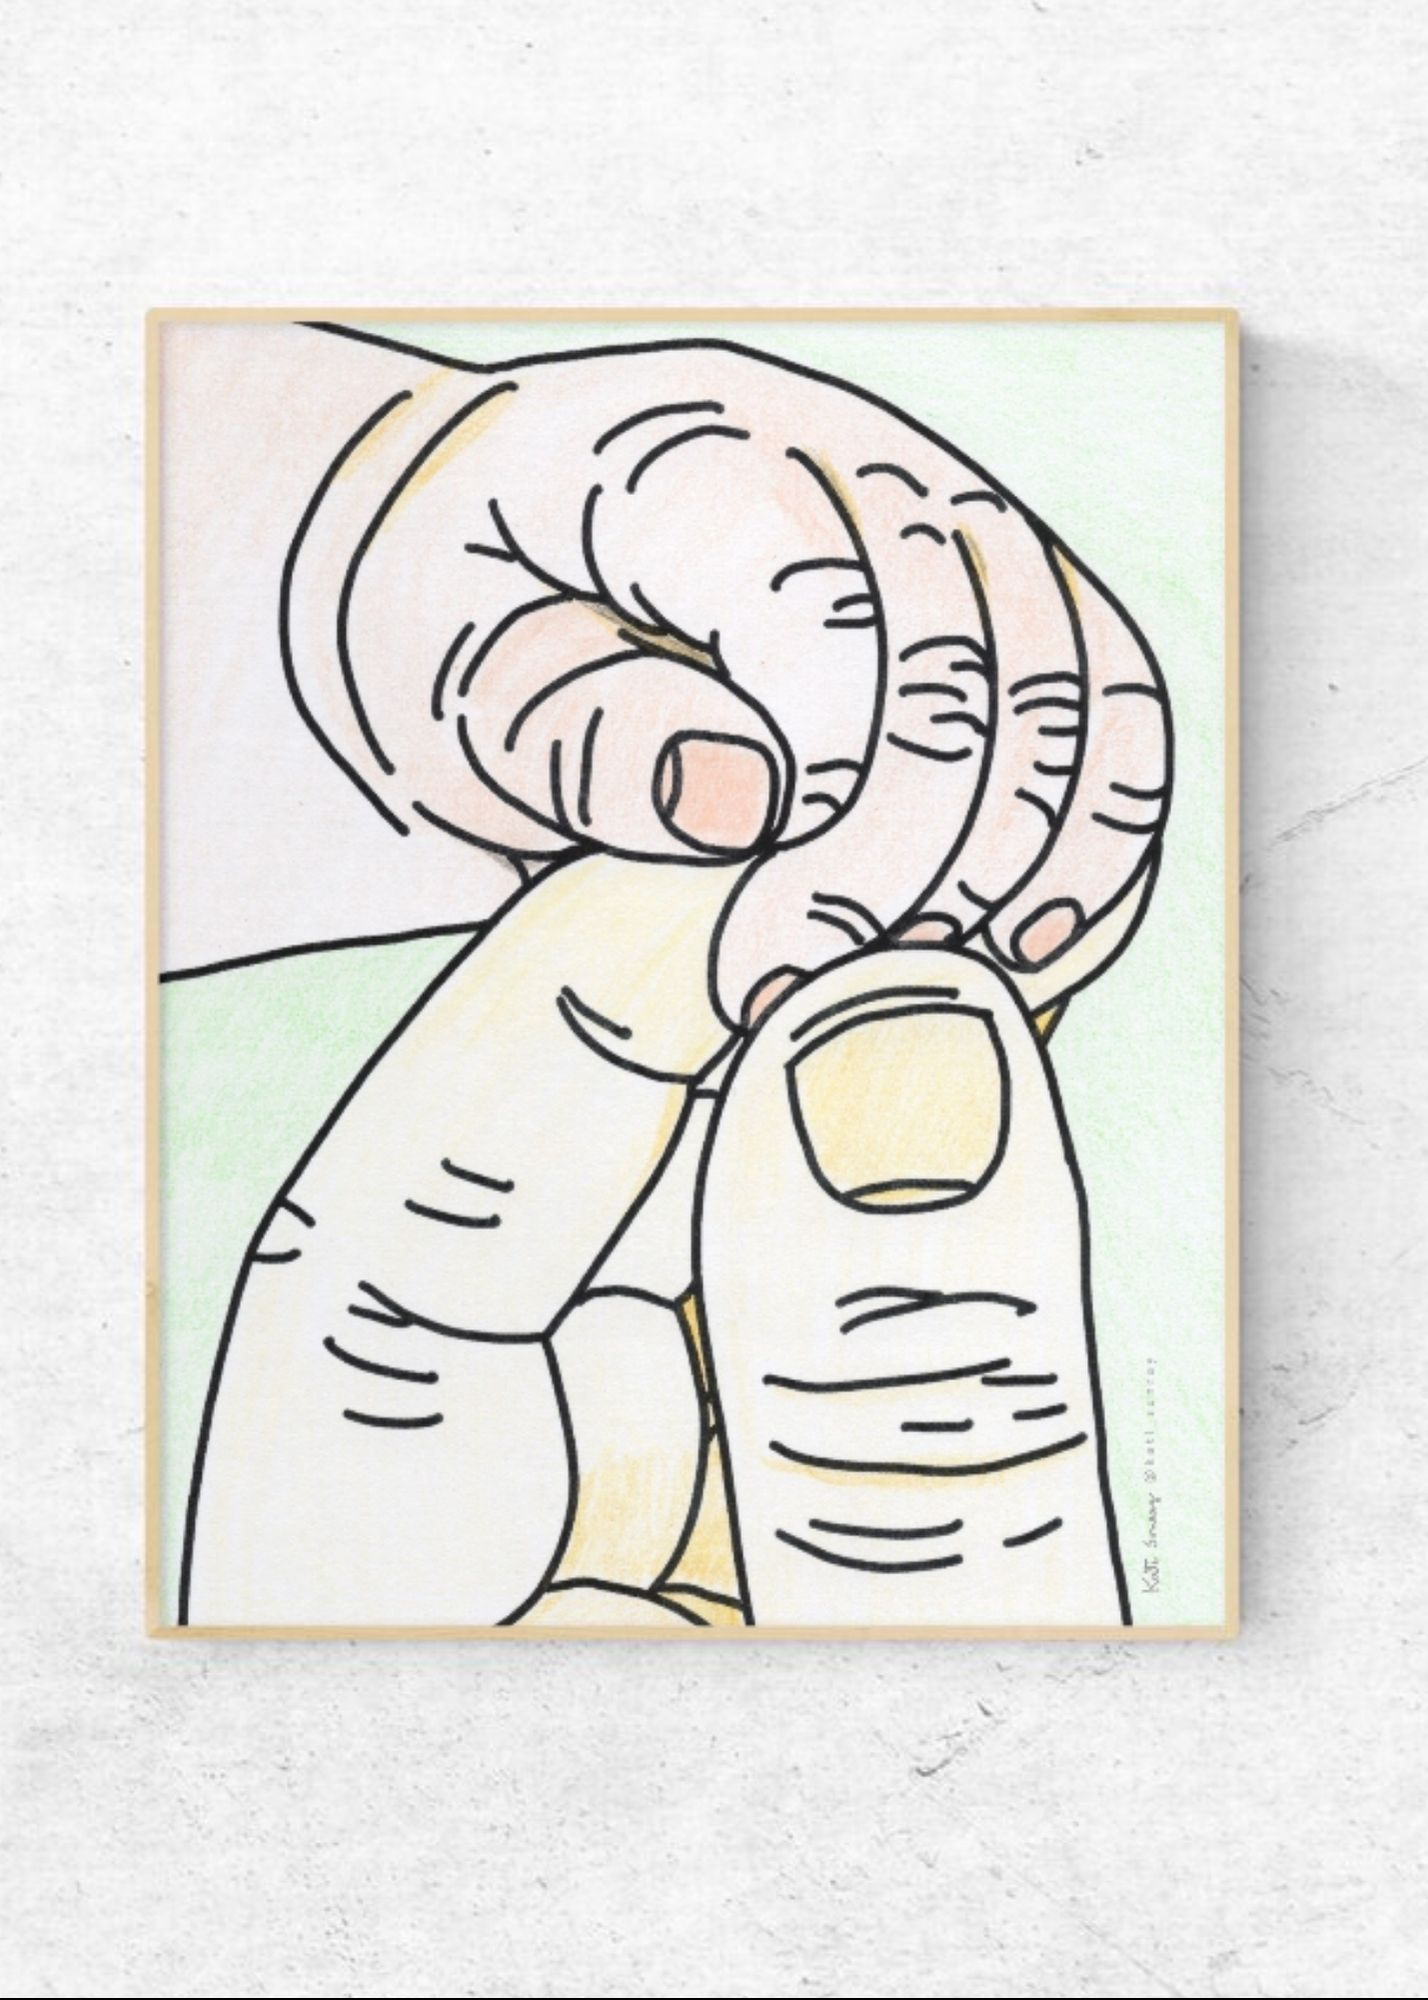
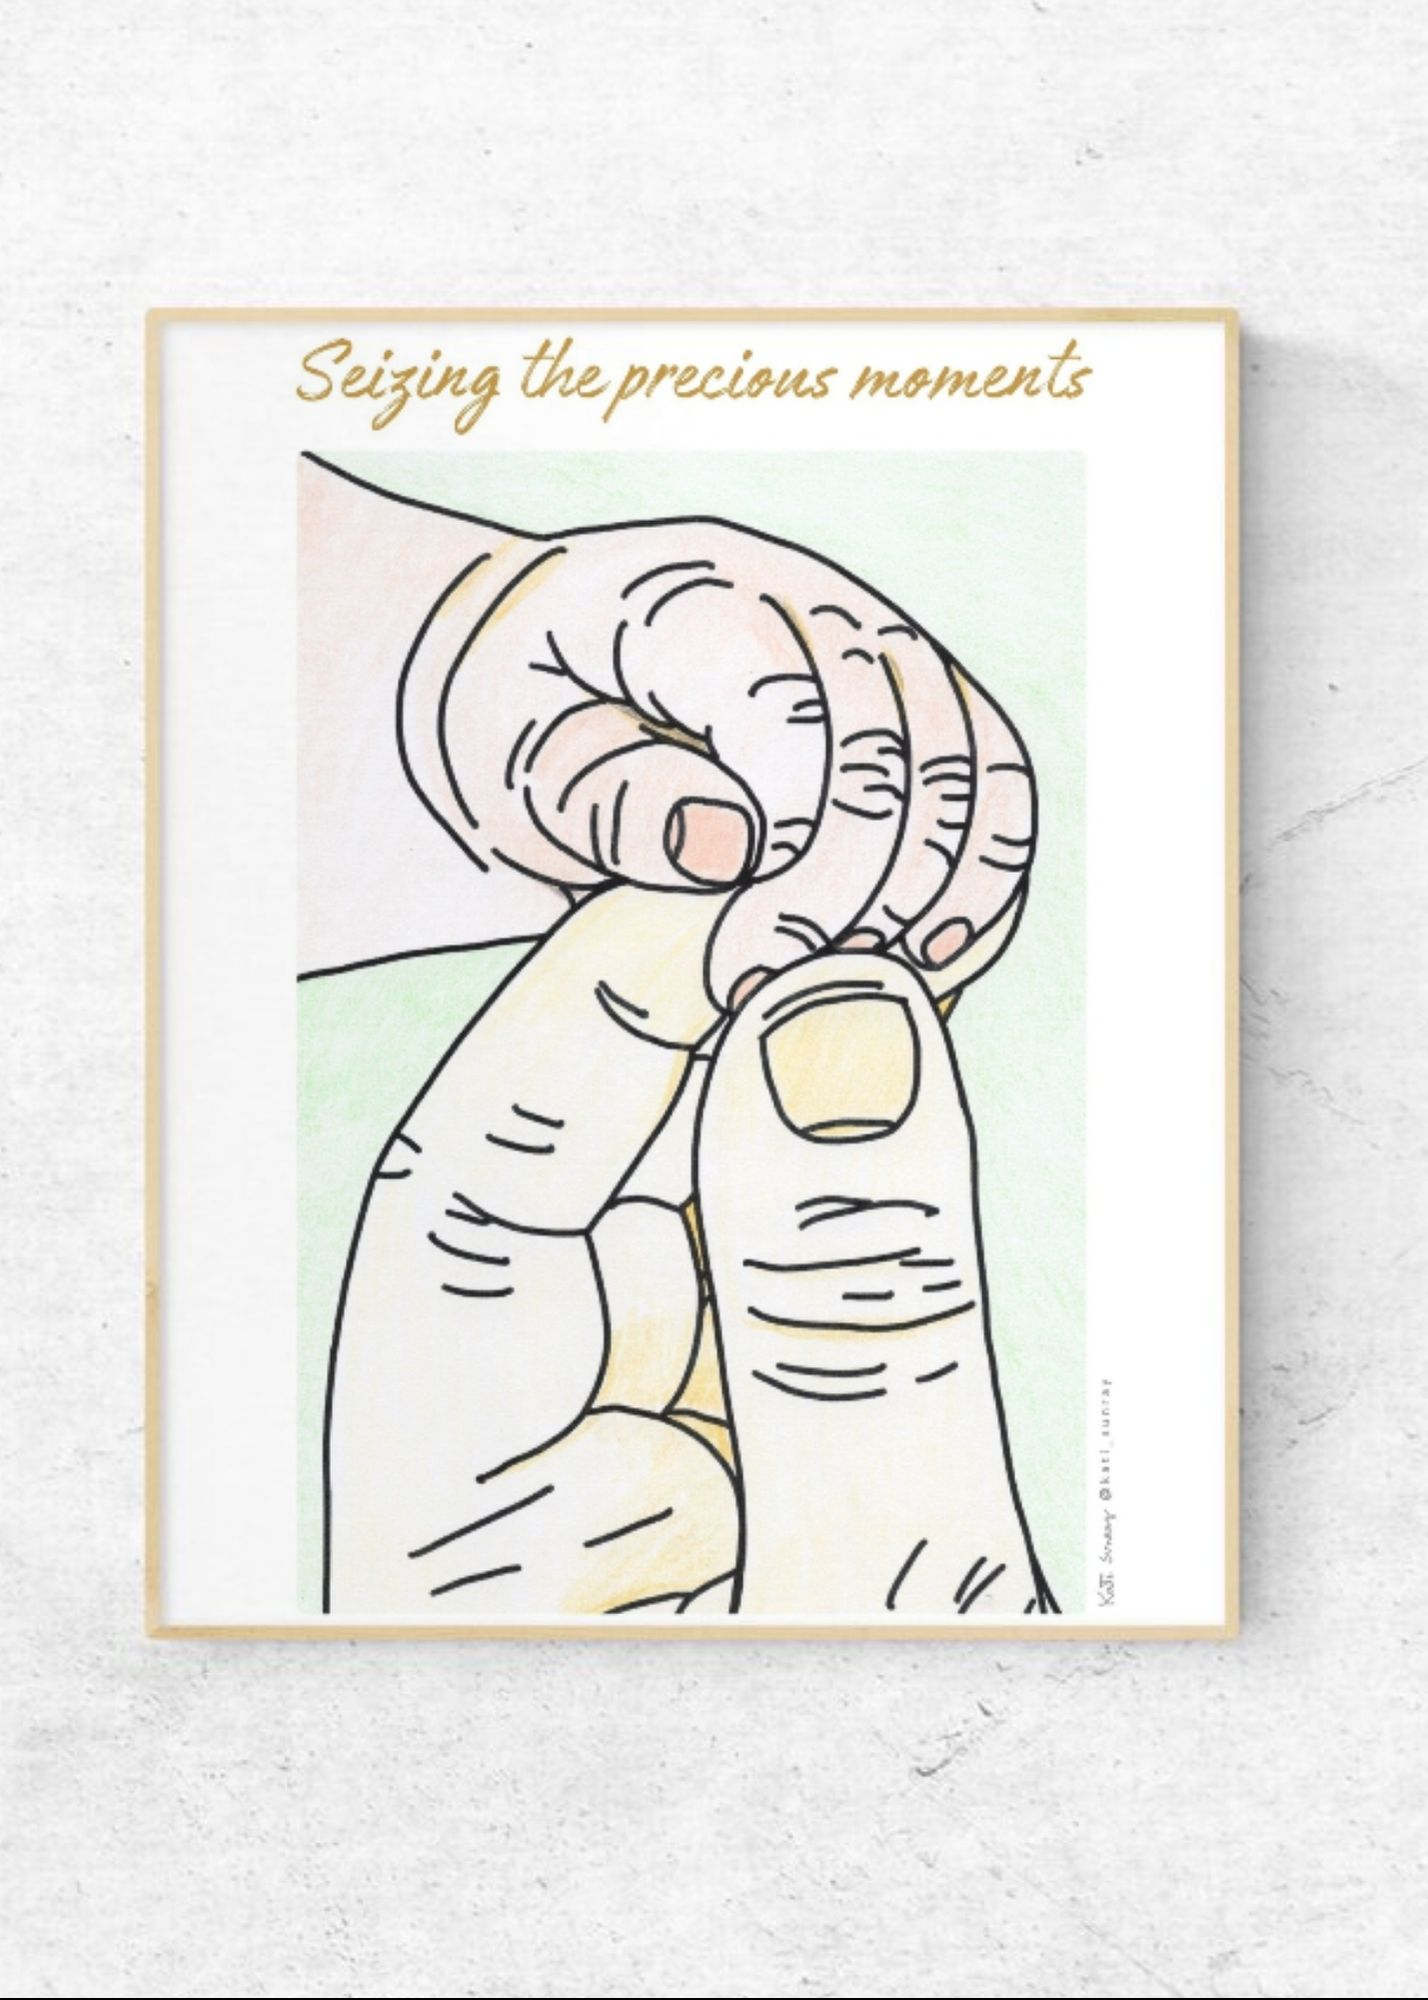
feat: add new custom offerings and refresh product assets

Changed region(s): [[0.0924, 0.155, 0.8627, 0.837], [0.1232, 0.155, 0.1541, 0.186]]

diff --git a/.eleventy.js b/.eleventy.js
@@ -100,13 +100,24 @@ module.exports = function (config) {
         imageHtml = await imgShortcode(chosen, d.title, [400, 800, 1200], "(min-width: 1024px) 20vw, (min-width: 640px) 33vw, 100vw", pathPrefix);
       }
     }
+    const hasPrice = d && d.price !== undefined && d.price !== null && d.price !== '';
+    const priceMarkup = hasPrice
+      ? `<span class="text-sm font-semibold">$${d.price} ${d.currency || 'CAD'}</span>`
+      : '';
+    const comingSoonOverlay = d && d.coming_soon
+      ? `<div class="absolute inset-0 flex items-center justify-center bg-black/60 text-white text-xs sm:text-sm font-semibold uppercase tracking-[0.35em] pointer-events-none">COMING&nbsp;SOON</div>`
+      : '';
     return `
 <a class="block group rounded-md overflow-hidden border hover:shadow-md transition" href="${url}">
-  <div class="aspect-[4/3] bg-gray-100 overflow-hidden media-contain">${imageHtml}</div>
+  <div class="relative aspect-[4/3] bg-gray-100 overflow-hidden media-contain">${imageHtml}
+    <div class="absolute inset-0 bg-black/0 group-hover:bg-black/10 transition-all duration-300 pointer-events-none"></div>
+    ${comingSoonOverlay}
+    ${d.type ? `<div class="absolute top-4 left-4"><span class="inline-block text-[11px] uppercase tracking-wide bg-white/90 backdrop-blur-sm text-neutral-700 px-2 py-1 rounded-md">${d.type}</span></div>` : ''}
+  </div>
   <div class="p-3">
     <div class="flex items-center justify-between">
       <h3 class="font-medium group-hover:underline">${d.title || ''}</h3>
-      <span class="text-sm font-semibold">${d.price || ''} ${d.currency || 'CAD'}</span>
+      ${priceMarkup}
     </div>
     ${d.type ? `<span class=\"mt-2 inline-block text-[11px] uppercase tracking-wide bg-beige px-2 py-1 rounded-md\">${d.type}</span>` : ''}
   </div>

diff --git a/src/content/products/custom-magnificent-little-you-art-line-print.md b/src/content/products/custom-magnificent-little-you-art-line-print.md
@@ -1,0 +1,29 @@
+---
+layout: layouts/product.njk
+title: "Custom Magnificent Little You Art Line Print"
+slug: "custom-magnificent-little-you-art-line-print"
+permalink: "/shop/{{ slug }}/index.html"
+price: ""
+shop_list_order: 12
+home_feature_order: 12
+currency: "CAD"
+coming_soon: true
+collection_tags: ["custom", "illustration"]
+images:
+  - src: "/images/products/custom-illustrations/custom-illustration-5x7.jpg"
+buy_url: "mailto:katisunray@gmail.com?subject=Custom%20Magnificent%20Little%20You%20Art%20Line%20Print%20Waitlist"
+buy_button_label: "Join the waitlist"
+in_stock: false
+price_label: "Coming soon — join the waitlist for updates."
+seo:
+  title: "Custom Magnificent Little You Art Line Print | Kati Sunray STUDIO"
+  description: "A new custom line art keepsake that celebrates your little one's story — launching soon."
+---
+
+A keepsake-in-the-making for families who cherish every gentle stretch, sleepy yawn, and growing milestone. The **Custom Magnificent Little You Art Line Print** will transform your favourite baby photo into a minimalist line-art portrait — a timeless piece to frame, gift, and revisit for years to come.
+
+This custom illustration offer is currently in development. Join the waitlist to share your interest, receive launch updates, and help guide the finishing touches.
+
+- Tailored from your reference photo with thoughtful artist-led details.
+- Printed on premium matte stock for an elevated, gallery-ready finish.
+- Email us to express interest or share questions — we’ll keep you posted as soon as pre-orders open.

diff --git a/src/content/products/my-illustrated-first-year-keepsake.md b/src/content/products/my-illustrated-first-year-keepsake.md
@@ -1,0 +1,29 @@
+---
+layout: layouts/product.njk
+title: "\"My Illustrated First Year\" Keepsake (12 Custom Baby Illustration Art Prints)"
+slug: "my-illustrated-first-year-keepsake"
+permalink: "/shop/{{ slug }}/index.html"
+price: ""
+shop_list_order: 13
+home_feature_order: 13
+currency: "CAD"
+coming_soon: true
+collection_tags: ["custom", "keepsake"]
+images:
+  - src: "/images/products/custom-illustrations/custom-illustration-5x7.jpg"
+buy_url: "mailto:katisunray@gmail.com?subject=My%20Illustrated%20First%20Year%20Keepsake%20Waitlist"
+buy_button_label: "Join the waitlist"
+in_stock: false
+price_label: "Coming soon — register your interest for launch updates."
+seo:
+  title: "\"My Illustrated First Year\" Keepsake | Kati Sunray STUDIO"
+  description: "A 12-print illustrated keepsake capturing baby’s first-year milestones — arriving soon."
+---
+
+Twelve months, twelve heartfelt illustrations. The **“My Illustrated First Year” keepsake** is being crafted as a premium collection of custom baby portraits — one for each month of the very first year.
+
+Each print will be lovingly interpreted from the photos you share, creating a visual timeline of growth, connection, and family presence. We’re putting the finishing touches on this offering and would love to keep you in the loop.
+
+- Includes twelve custom art prints (letter size) designed from your monthly photo selections.
+- Delivered ready to frame or gift, with optional digital files for sharing.
+- Email us to join the waitlist, receive updates, and be first to know when orders open.

diff --git a/src/content/products/art-print/collections/coloured-illustrations.md b/src/content/products/art-print/collections/coloured-illustrations.md
@@ -24,12 +24,12 @@ skus:
     image:
       src: "/images/products/arts-prints/collections/collection-coloured-illustrations/KO546-P36_Art print 8.5x11_Collection Coloured Illustrations_Only Chubby Legs Front - Yellow Coloured Back.jpg"
       alt: "Art print titled \"Only Chubby Legs Front (Yellow Coloured Back)\" from the Coloured Illustrations Collection."
-  - id: "KO546-P47"
-    name: "Seizing Precious Moments (Pinching Fingers)"
+  - id: "KO546-P38"
+    name: "Pinching Fingers (Coloured)"
     price: 18
     image:
-      src: "/images/products/arts-prints/collections/collection-coloured-illustrations/KO546-P47_Art print 8.5x11_Collection Mindful Presence_Seizing precious moments_Pinching fingers_white.jpg"
-      alt: "Art print titled \"Seizing Precious Moments (Pinching Fingers)\" with pinching fingers white illustration."
+      src: "/images/products/arts-prints/collections/collection-coloured-illustrations/KO546-P38_Art print 8.5x11_Collection Coloured Illustrations_Pinching Fingers Coloure.jpg"
+      alt: "Art print titled \"Pinching Fingers (Coloured)\" with a vibrant palette from the Coloured Illustrations Collection."
   - id: "KO546-P52"
     name: "Touch Mom Face COLOURED"
     price: 18

diff --git a/src/content/products/greeting-cards/collections/baby-shower-labor.md b/src/content/products/greeting-cards/collections/baby-shower-labor.md
@@ -18,12 +18,12 @@ skus:
     image:
       src: "/images/products/greeting-cards/collections/collection-baby-shower-labor/KO546-G02_Greeting card 5x7 _Collection Baby Shower & Labor_Baby Shower -Flower, Newborn Swaddle, Love ones_yellow lightie, pinching.jpg"
       alt: "Baby shower greeting card with a swaddled newborn surrounded by blooming flowers and family hands."
-  - id: "KO546-G18"
-    name: "Love Auntie"
+  - id: "KO546-G17"
+    name: "Labor Bump (Green)"
     price: 8
     image:
-      src: "/images/products/greeting-cards/collections/collection-baby-shower-labor/KO546-G18_Greeting card 5x7 _Collection Auntie & Uncle love_Love auntie_chubby legs front_coloured yellow back.jpg"
-      alt: 'Greeting card reading "Love Auntie" with a sunny yellow background and baby legs illustration.'
+      src: "/images/products/greeting-cards/collections/collection-baby-shower-labor/KO546-G17_Greeting card 5x7 _Collection Baby Shower & Labor_Labor_Bump_Green.jpg"
+      alt: "Greeting card featuring an expectant parent holding their bump in a calming green palette."
   - id: "KO546-G35"
     name: "Wishing Precious Moments"
     price: 8

diff --git a/src/content/products/mindful-presence-parenting-workshops.md b/src/content/products/mindful-presence-parenting-workshops.md
@@ -4,7 +4,7 @@ title: "Mindful Presence & Parenting Workshops"
 slug: "mindful-presence-parenting-workshops"
 permalink: "/shop/{{ slug }}/index.html"
 price_label: "Workshops begin in the first half of 2026"
-shop_list_order: 9
+shop_list_order: 14
 currency: ""
 sku: "WORKSHOP-MPP"
 collection_tags: ["workshops","mindful-presence"]
@@ -14,6 +14,7 @@ images:
 buy_url: "mailto:katisunray@gmail.com?subject=Mindful%20Presence%20%26%20Parenting%20Workshops%20Waitlist"
 buy_button_label: "Request more information"
 in_stock: false
+home_feature_order: 14
 seo:
   title: "Mindful Presence & Parenting Workshops | Kati Sunray STUDIO"
   description: "Join the waitlist to be first to know when mindful presence and parenting workshops open."

diff --git a/src/content/products/mindful-presence-parenting-coaching.md b/src/content/products/mindful-presence-parenting-coaching.md
@@ -4,7 +4,7 @@ title: "Mindful Presence & Parenting Coaching"
 slug: "mindful-presence-parenting-coaching"
 permalink: "/shop/{{ slug }}/index.html"
 price_label: "Programs available February 2026"
-shop_list_order: 8
+shop_list_order: 15
 currency: ""
 sku: "COACHING-MPP"
 collection_tags: ["coaching","mindful-presence"]
@@ -14,6 +14,7 @@ images:
 buy_url: "mailto:katisunray@gmail.com?subject=Mindful%20Presence%20%26%20Parenting%20Coaching%20Waitlist"
 buy_button_label: "Request more information"
 in_stock: false
+home_feature_order: 15
 seo:
   title: "Mindful Presence & Parenting Coaching | Kati Sunray STUDIO"
   description: "Join the waitlist for mindful presence and parenting coaching launching in 2026."

diff --git a/src/content/products/beanie-toque.md b/src/content/products/beanie-toque.md
@@ -4,7 +4,7 @@ title: "Beanie Toque"
 slug: "beanie-toque"
 permalink: "/shop/{{ slug }}/index.html"
 price: 45
-shop_list_order: 13
+shop_list_order: 10
 currency: "CAD"
 type: "BEANIE TOQUE"
 sku: "BEANIE-TOQUE"
@@ -13,6 +13,7 @@ images:
   - src: "/images/products/beanie-toque/KO546-Q01_Beanie Toque_Collection Mindful Presence_Being Present - Embroiderie - Grey.jpg"
 buy_url: "mailto:katisunray@gmail.com?subject=Beanie%20Toque%20Order"
 in_stock: true
+home_feature_order: 10
 seo:
   title: "Beanie Toque | Kati Sunray STUDIO"
   description: "Warm, breathable beanies featuring 3M™ Thinsulate™ insulation."

diff --git a/src/content/products/greeting-cards/collections/thank-you.md b/src/content/products/greeting-cards/collections/thank-you.md
@@ -9,7 +9,7 @@ permalink: "/shop/greeting-cards/collections/{{ slug }}/index.html"
 summary: "Thoughtful cards for expressing heartfelt thanks to friends, family, and community."
 order_prompt: "Email us with the SKU code and desired quantity to place your order."
 hero_image:
-  src: "/images/products/greeting-cards/collections/GREETING CARDS - Collection Thank You.jpg"
+  src: "/images/products/greeting-cards/collections/GREETING CARDS - Collection Thank you.jpg"
   alt: "Greeting cards featuring warm thank-you messages and illustrations."
 skus:
   - id: "KO546-G24"

diff --git a/src/content/products/baby-clothing.md b/src/content/products/baby-clothing.md
@@ -4,7 +4,7 @@ title: "Baby Clothing"
 slug: "baby-clothing"
 permalink: "/shop/{{ slug }}/index.html"
 price: 40
-shop_list_order: 11
+shop_list_order: 6
 currency: "CAD"
 type: "BABY CLOTHING"
 sku: "BABY-ONESIE"
@@ -13,6 +13,7 @@ images:
   - src: "/images/products/baby-clothing/baby-clothing.jpg"
 buy_url: "mailto:katisunray@gmail.com?subject=Baby%20Clothing%20Order"
 in_stock: true
+home_feature_order: 6
 seo:
   title: "Baby Clothing | Kati Sunray STUDIO"
   description: "Soft cotton baby bodysuits and onesies designed for cozy family moments."

diff --git a/src/content/products/kids-t-shirts.md b/src/content/products/kids-t-shirts.md
@@ -4,7 +4,7 @@ title: "Kids' T-Shirts"
 slug: "kids-t-shirts"
 permalink: "/shop/{{ slug }}/index.html"
 price: 45
-shop_list_order: 10
+shop_list_order: 7
 currency: "CAD"
 type: "KIDS' T-SHIRTS"
 sku: "TS-KIDS"
@@ -13,6 +13,7 @@ images:
   - src: "/images/products/kids-t-shirts/kids-t-shirts.jpg"
 buy_url: "mailto:katisunray@gmail.com?subject=Kids%20T-Shirt%20Order"
 in_stock: true
+home_feature_order: 7
 seo:
   title: "Kids' T-Shirts | Kati Sunray STUDIO"
   description: "Soft cotton tees for kids featuring family-inspired illustrations."

diff --git a/src/content/products/t-shirts.md b/src/content/products/t-shirts.md
@@ -4,7 +4,7 @@ title: "T-Shirts"
 slug: "t-shirts"
 permalink: "/shop/{{ slug }}/index.html"
 price: 45
-shop_list_order: 6
+shop_list_order: 11
 currency: "CAD"
 type: "T-SHIRTS"
 sku: "TS-SOFT-UNISEX"
@@ -13,6 +13,7 @@ images:
   - src: "/images/products/t-shirts/t-shirts-collection-hero.jpg"
 buy_url: "mailto:katisunray@gmail.com?subject=T-Shirt%20Order"
 in_stock: true
+home_feature_order: 11
 seo:
   title: "T-Shirts | Kati Sunray STUDIO"
   description: "Soft cotton tees featuring warm, family-inspired illustrations."
